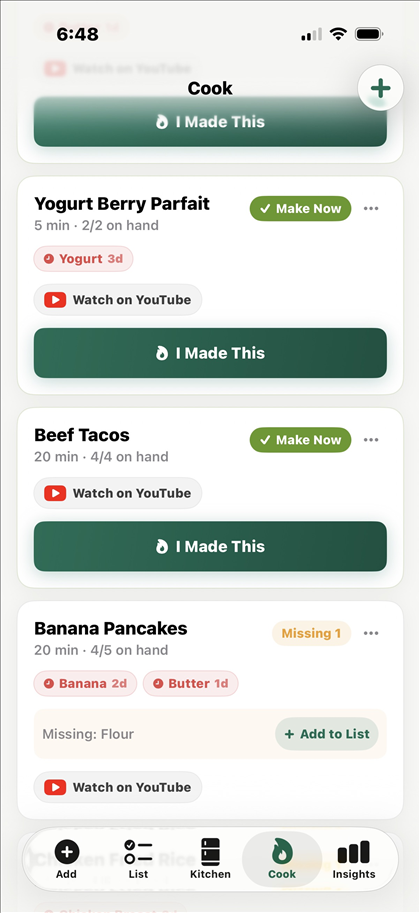
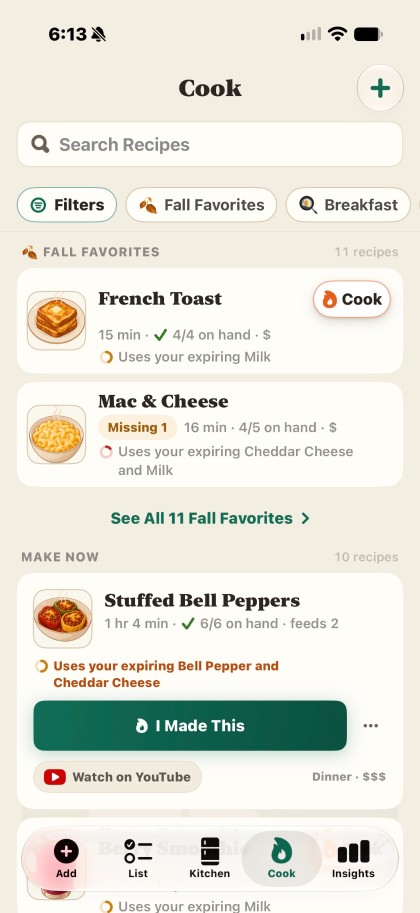
Pages match Kepta 1.2.15 + comparison refresh (CN-5, CN-16)
- New 1.2.15 screenshots (Kitchen, Cook, Insights) from John's store set, 420x913
- Eatvora page: rechecked Nov 14 vs eatvora.app + App Store (prices, plans, scanning unchanged);
  dates to November 2026; last-updated line for both apps; Ads row (their listing says it contains
  advertising); Kepta lines for 1.2.15 (dates per food + ring, never auto-discards, step by step
  recipes, Recycling and Food Scraps page)
- CozZo page: status rechecked (cozzo.app still shows the end-of-life notice, not in the US store);
  dates to November 2026; Kepta lines for 1.2.15
- Homepage + Thanksgiving: more than 100 recipes with directions, picture tiles, ring wording, alts
- Sitemap lastmod 2026-11-14 for the four changed pages. No only-app or more-accurate claims anywhere.

diff --git a/kepta-vs-eatvora.html b/kepta-vs-eatvora.html
@@ -5,12 +5,12 @@
 <meta name="viewport" content="width=device-width, initial-scale=1">
 <meta name="apple-itunes-app" content="app-id=6805635396">
 <title>Kepta vs Eatvora</title>
-<meta name="description" content="An honest, plainly worded comparison of Kepta and Eatvora: family sharing, item limits, pricing, recipes, and where each app is ahead. Verified September 2026.">
+<meta name="description" content="An honest, plainly worded comparison of Kepta and Eatvora: family sharing, item limits, pricing, recipes, and where each app is ahead. Verified November 2026.">
 <link rel="canonical" href="https://kepta.kitchen/kepta-vs-eatvora">
 <meta property="og:type" content="website">
 <meta property="og:site_name" content="Kepta">
 <meta property="og:title" content="Kepta vs Eatvora">
-<meta property="og:description" content="An honest, plainly worded comparison of Kepta and Eatvora: family sharing, item limits, pricing, recipes, and where each app is ahead. Verified September 2026.">
+<meta property="og:description" content="An honest, plainly worded comparison of Kepta and Eatvora: family sharing, item limits, pricing, recipes, and where each app is ahead. Verified November 2026.">
 <meta property="og:url" content="https://kepta.kitchen/kepta-vs-eatvora">
 <meta property="og:image" content="https://kepta.kitchen/kepta-share-card-2026-10.png">
 <meta property="og:image:secure_url" content="https://kepta.kitchen/kepta-share-card-2026-10.png">
@@ -20,7 +20,7 @@
 <meta property="og:image:alt" content="Kepta: Kitchen Inventory. Waste less, save money. Free on the App Store at kepta.kitchen.">
 <meta name="twitter:card" content="summary_large_image">
 <meta name="twitter:title" content="Kepta vs Eatvora">
-<meta name="twitter:description" content="An honest, plainly worded comparison of Kepta and Eatvora: family sharing, item limits, pricing, recipes, and where each app is ahead. Verified September 2026.">
+<meta name="twitter:description" content="An honest, plainly worded comparison of Kepta and Eatvora: family sharing, item limits, pricing, recipes, and where each app is ahead. Verified November 2026.">
 <meta name="twitter:image" content="https://kepta.kitchen/kepta-share-card-2026-10.png">
 <meta name="twitter:image:alt" content="Kepta: Kitchen Inventory. Waste less, save money. Free on the App Store at kepta.kitchen.">
 <link rel="icon" href="/favicon.ico" sizes="48x48">
@@ -135,7 +135,7 @@
   out the differences plainly, so you can pick the one that fits your&nbsp;kitchen.</p>
 
   <p class="note">Everything on this page about Eatvora was checked against eatvora.app and
-  their US App Store listing in September 2026. Their pricing and plans can change. If
+  their US App Store listing in November 2026. Their pricing and plans can change. If
   something here is out of date, tell us at
   <a href="mailto:support@kepta.kitchen">support@kepta.kitchen</a> and we'll fix it.
   Eatvora is a trademark of its owner. Kepta isn't affiliated with or endorsed by Eatvora,
@@ -146,7 +146,7 @@
     <div class="card">
       <h3>Eatvora in&nbsp;short</h3>
       <p>A household-management app with a <strong>free plan and two paid tiers</strong>. As
-      of September 2026, features like AI suggestions, unlimited items, family sharing, and
+      of November 2026, features like AI suggestions, unlimited items, family sharing, and
       monthly reports sit in the paid&nbsp;tiers.</p>
     </div>
     <div class="card">
@@ -168,21 +168,21 @@
           <th scope="row">Price</th>
           <td class="k">Free, with no ads and no item caps. Kepta Plus adds deeper money reports ($2.99/mo, $19.99/yr with a free week for new subscribers, or $39.99 once). Everything that saves food stays&nbsp;free.</td>
           <td class="e">Free download; Premium $4.99/mo or $39.99/yr; Plus $9.99/mo or $79.99/yr.
-            <small class="date">As of Sept&nbsp;2026</small></td>
+            <small class="date">As of Nov&nbsp;2026</small></td>
         </tr>
         <tr>
           <th scope="row">Family&nbsp;Sharing</th>
           <td class="k">Free. Your whole family shares one kitchen with a 6-character invite
             code like&nbsp;<span class="invite">ABC-123</span>.</td>
           <td class="e">In the Plus tier at $9.99/mo, for up to 5 household members.
-            <small class="date">As of Sept&nbsp;2026</small></td>
+            <small class="date">As of Nov&nbsp;2026</small></td>
         </tr>
         <tr>
           <th scope="row">Item&nbsp;Limits</th>
           <td class="k">None. Track as much food as you&nbsp;own.</td>
           <td class="e">Free plan is capped at 25 pantry items (per their site); Premium removes
             the cap.
-            <small class="date">As of Sept&nbsp;2026</small></td>
+            <small class="date">As of Nov&nbsp;2026</small></td>
         </tr>
         <tr>
           <th scope="row">Money&nbsp;Tracking</th>
@@ -190,41 +190,48 @@
             Homemade meals are counted as dishes, never given made-up&nbsp;prices.</td>
           <td class="e">Savings and report features, including the monthly report card and PDF
             reports, are in the Plus tier.
-            <small class="date">As of Sept&nbsp;2026</small></td>
+            <small class="date">As of Nov&nbsp;2026</small></td>
         </tr>
         <tr>
           <th scope="row">Recipes</th>
-          <td class="k">100 built-in recipes ranked by what you already have, with
-            expiring food pushed up, plus a YouTube video search for every dish and your own&nbsp;recipes.</td>
+          <td class="k">More than 100 built-in recipes ranked by what you already have, with
+            expiring food pushed up. Each has step by step directions with real amounts and a
+            Watch on YouTube button, and you can add your own&nbsp;recipes.</td>
           <td class="e">AI recipe suggestions and autopilot suggestions are in the Premium tier.
-            <small class="date">As of Sept&nbsp;2026</small></td>
+            <small class="date">As of Nov&nbsp;2026</small></td>
         </tr>
         <tr>
           <th scope="row">Barcode&nbsp;Scanning</th>
           <td class="k">Not&nbsp;yet.</td>
           <td class="e">Included on the free plan.
-            <small class="date">As of Sept&nbsp;2026</small></td>
+            <small class="date">As of Nov&nbsp;2026</small></td>
         </tr>
         <tr>
           <th scope="row">Receipt&nbsp;Scanning</th>
           <td class="k">Not&nbsp;yet.</td>
           <td class="e">Their site lists receipt scanning on the free plan, with advanced OCR
             scanning in Premium.
-            <small class="date">As of Sept&nbsp;2026</small></td>
+            <small class="date">As of Nov&nbsp;2026</small></td>
         </tr>
         <tr>
           <th scope="row">Availability</th>
-          <td class="k">On the App Store now.
-            <small class="date">As of Sept&nbsp;2026</small></td>
-          <td class="e">On the App Store now.
-            <small class="date">As of Sept&nbsp;2026</small></td>
+          <td class="k">On the App Store now. Last updated Nov&nbsp;13,&nbsp;2026 (version&nbsp;1.2.15).
+            <small class="date">As of Nov&nbsp;2026</small></td>
+          <td class="e">On the App Store now. Last updated Aug&nbsp;12,&nbsp;2026 (version&nbsp;1.2.1).
+            <small class="date">As of Nov&nbsp;2026</small></td>
+        </tr>
+        <tr>
+          <th scope="row">Ads</th>
+          <td class="k">None.</td>
+          <td class="e">Their App Store listing says the app contains&nbsp;advertising.
+            <small class="date">As of Nov&nbsp;2026</small></td>
         </tr>
       </tbody>
     </table>
   </div>
 
   <h2>Where Eatvora is ahead&nbsp;today</h2>
-  <p>Honestly, in a few places. As of September 2026, Eatvora ships all of&nbsp;these:</p>
+  <p>Honestly, in a few places. As of November 2026, Eatvora ships all of&nbsp;these:</p>
   <div class="card">
     <ul class="features">
       <li><span class="dot">&#9679;</span><span>Barcode&nbsp;scanning</span></li>
@@ -246,16 +253,19 @@
       <p>Kepta puts its effort into the everyday loop: knowing what's in your kitchen, what
       to use next, and what it's really costing&nbsp;you.</p>
       <ul class="plain">
-        <li><strong>A freshness color for every item</strong>, based on typical storage times for its kind of food and where you keep it, so you always know what to use&nbsp;next</li>
+        <li><strong>A date that fits each food</strong> and where you keep it, with a small ring showing how much of its life is left, so you always know what to use&nbsp;next</li>
+        <li><strong>Nothing counts as wasted unless you toss it.</strong> Food past its date waits in a card that says "Check before use", and Kepta never marks it discarded for&nbsp;you</li>
         <li><strong>A daily reminder that names the actual food</strong> about to turn, not a generic&nbsp;ping</li>
+        <li><strong>Recipes with step by step directions</strong> and real amounts that follow how many people you're cooking&nbsp;for</li>
         <li><strong>A shopping list with aisle grouping</strong> that moves straight into your kitchen, prices&nbsp;included</li>
+        <li><strong>A Recycling and Food Scraps page</strong> in Settings, with a short tip when you toss or finish a&nbsp;food</li>
         <li><strong>Family sharing, offline support, and Undo</strong> right after you add, use, or toss food, all&nbsp;free</li>
         <li><strong>No ads and no tracking</strong>: your email and kitchen data are used only to run Kepta, and Kepta Plus purchases are handled by Apple and&nbsp;RevenueCat</li>
         <li><strong>Delete your account any time</strong>, right inside the&nbsp;app</li>
       </ul>
     </div>
     <figure>
-      <img src="shots/insights.png" alt="Kepta's Insights screen showing money wasted and money saved" width="420" height="913" loading="lazy">
+      <img src="shots/insights.png" alt="Kepta's Insights screen showing money saved, money wasted, the save rate, and where the waste went" width="420" height="913" loading="lazy">
       <figcaption>Kepta's money screen, built on the prices you enter. Homemade meals count as dishes, not&nbsp;dollars.</figcaption>
     </figure>
   </div>

diff --git a/cozzo-alternative.html b/cozzo-alternative.html
@@ -159,14 +159,14 @@
     <div>
       <h2>What happened to&nbsp;CozZo</h2>
       <div class="card" style="margin-bottom:0;">
-        <p style="margin:0 0 0.7rem;">By its makers' own account, the service ended because the cloud infrastructure that supported it was being shut down, not because they chose to walk away from it. They responded generously: a farewell version with every premium feature unlocked, supported through December 30, 2025. As of September 2026, the app is no longer available on the US App&nbsp;Store.</p>
+        <p style="margin:0 0 0.7rem;">By its makers' own account, the service ended because the cloud infrastructure that supported it was being shut down, not because they chose to walk away from it. They responded generously: a farewell version with every premium feature unlocked, supported through December 30, 2025. As of November 2026, the app is no longer available on the US App&nbsp;Store.</p>
         <p style="margin:0;">Their goodbye note was warm to the&nbsp;end.</p>
         <blockquote>"Thank you for every moment you've spent with CozZo."<cite>The CozZo team, in their farewell&nbsp;announcement</cite></blockquote>
       </div>
     </div>
     <div>
       <h2>Where Kepta&nbsp;stands</h2>
-      <p style="margin:0;">Kepta is a kitchen inventory and food-waste app for iPhone. It is free on the App Store now. Everything in the CozZo column below comes from CozZo's own website, and every comparison is accurate as of September&nbsp;2026.</p>
+      <p style="margin:0;">Kepta is a kitchen inventory and food-waste app for iPhone. It is free on the App Store now. Everything in the CozZo column below comes from CozZo's own website, and every comparison is accurate as of November&nbsp;2026.</p>
       <p class="notice">CozZo is a trademark of its owner. Kepta isn't affiliated with or endorsed by the CozZo team, and this page isn't a review of their work: it's a plain accounting of what carries over and what doesn't. If something here is wrong, tell us at <a href="mailto:support@kepta.kitchen">support@kepta.kitchen</a> and we'll fix&nbsp;it.</p>
     </div>
   </section>
@@ -210,7 +210,7 @@
       <h3>Your food inventory <span class="chip yes">Covered</span></h3>
       <div class="cols">
         <div class="col"><span class="label">CozZo had</span><p>One inventory from fridge to pantry, tracking "Best By" and "Use By" dates for all&nbsp;foods.</p></div>
-        <div class="col k"><span class="label">Kepta</span><p>Fridge, freezer, and pantry, plus custom places you name yourself. Instead of typed package dates, every item gets a freshness color from typical storage times for its kind of food and where it's&nbsp;kept.</p></div>
+        <div class="col k"><span class="label">Kepta</span><p>Fridge, freezer, and pantry, plus custom places you name yourself. Instead of typed package dates, every item gets a date that fits the food itself and where it's kept, with a small ring showing how much of its life is left. Pick the day you bought something and its dates count from that&nbsp;day.</p></div>
       </div>
     </div>
 
@@ -226,7 +226,7 @@
       <h3>Expiry warnings <span class="chip diff">Different</span></h3>
       <div class="cols">
         <div class="col"><span class="label">CozZo had</span><p>"Best By" and "Use By" tracking that helped you decide whether food had to be&nbsp;binned.</p></div>
-        <div class="col k"><span class="label">Kepta</span><p>A daily reminder that names the actual items to use soon, plus freshness colors on every row. You don't have to type dates: Kepta estimates from what the food is and where it lives, and you can set your own on any item. It's quality guidance, not safety advice, and it says&nbsp;so.</p></div>
+        <div class="col k"><span class="label">Kepta</span><p>A daily reminder that names the actual items to use soon, plus a freshness ring and a plain countdown on every row, like "3 days left" or "2 days to cook". You don't have to type dates: Kepta estimates from what the food is and where it lives, and you can set your own on any item. It's quality guidance, not safety advice, and it says&nbsp;so.</p></div>
       </div>
     </div>
 
@@ -234,7 +234,7 @@
       <h3>Recipes from what you have <span class="chip yes">Covered</span></h3>
       <div class="cols">
         <div class="col"><span class="label">CozZo had</span><p>AI matching of recipe ingredients to the products in your stock, part of the Household&nbsp;Account.</p></div>
-        <div class="col k"><span class="label">Kepta</span><p>A Cook tab of 100 recipes ranked by what's already in your kitchen, with expiring food boosted to the top and a YouTube video search for every dish.&nbsp;Free.</p></div>
+        <div class="col k"><span class="label">Kepta</span><p>A Cook tab of more than 100 recipes ranked by what's already in your kitchen, with expiring food boosted to the top. Each has step by step directions with real amounts and a Watch on YouTube button.&nbsp;Free.</p></div>
       </div>
     </div>
 
@@ -258,7 +258,7 @@
       <h3>Barcode scanning <span class="chip not">Not&nbsp;Yet</span></h3>
       <div class="cols">
         <div class="col"><span class="label">CozZo had</span><p>A scanner that recognized over half a billion products, including package sizes and&nbsp;photos.</p></div>
-        <div class="col k"><span class="label">Kepta</span><p>Not yet. Adding food is fast type-ahead with smart guesses for category, place, and price, but there is no barcode scanner&nbsp;today.</p></div>
+        <div class="col k"><span class="label">Kepta</span><p>Not yet. Adding food is a tap on a Quick Add picture tile or fast type-ahead with smart guesses for category, place, and price, but there is no barcode scanner&nbsp;today.</p></div>
       </div>
     </div>
 
@@ -293,7 +293,9 @@
       <ul>
         <li><span class="dot">●</span><span><strong>Honest money tracking:</strong> the prices you enter (or a plain typical price you can change), charged only for what you waste, with no AI guessing and no fake dollars for home&nbsp;cooking.</span></li>
         <li><span class="dot">●</span><span><strong>A daily reminder that names real food,</strong> the actual items to use soon, not a generic&nbsp;ping.</span></li>
+        <li><span class="dot">●</span><span><strong>Step by step recipes:</strong> directions in Prep, Cook, and Serve, with real amounts that follow how many people you're cooking&nbsp;for.</span></li>
         <li><span class="dot">●</span><span><strong>Undo right after you add, use, or toss food,</strong> so a mis-tap never costs you an&nbsp;item.</span></li>
+        <li><span class="dot">●</span><span><strong>A Recycling and Food Scraps page</strong> in Settings, with a short tip when you toss or finish a&nbsp;food.</span></li>
         <li><span class="dot">●</span><span><strong>Offline support:</strong> add food and browse your kitchen without a&nbsp;connection.</span></li>
         <li><span class="dot">●</span><span><strong>No item caps, no ads, no tracking.</strong> Your email and kitchen data are used only to run Kepta, and Kepta Plus purchases are handled by Apple and&nbsp;RevenueCat.</span></li>
         <li><span class="dot">●</span><span><strong>Account deletion lives inside the app</strong> and removes your&nbsp;data.</span></li>
@@ -306,15 +308,15 @@
     <p class="kicker">Three screens from the&nbsp;app.</p>
     <div class="shots">
       <figure>
-        <img src="shots/kitchen.png" alt="Kepta's Kitchen tab, with items colored green, amber, and red by freshness" width="420" height="913" loading="lazy">
-        <figcaption>Freshness colors on every&nbsp;item</figcaption>
+        <img src="shots/kitchen.png" alt="Kepta's Kitchen tab: food pictures in a Use First shelf, each with a freshness ring and the days it has left" width="420" height="913" loading="lazy">
+        <figcaption>A freshness ring on every&nbsp;item</figcaption>
       </figure>
       <figure>
         <img src="shots/cook.png" alt="Kepta's Cook tab, with Make Now recipes ranked by what's in the kitchen" width="420" height="913" loading="lazy">
         <figcaption>Recipes ranked by what you&nbsp;have</figcaption>
       </figure>
       <figure>
-        <img src="shots/insights.png" alt="Kepta's Insights screen, showing money wasted and saved" width="420" height="913" loading="lazy">
+        <img src="shots/insights.png" alt="Kepta's Insights screen, showing money saved, money wasted, and where the waste went" width="420" height="913" loading="lazy">
         <figcaption>Money, honestly&nbsp;counted</figcaption>
       </figure>
     </div>

diff --git a/index.html b/index.html
@@ -294,15 +294,15 @@
       <div class="card">
         <span class="step-num">1</span>
         <h3>Add in&nbsp;seconds</h3>
-        <p>Tap a chip for staples like milk or eggs, or type a couple of letters and pick from
+        <p>Tap a picture tile for staples like milk or eggs, or type a couple of letters and pick from
         the suggestions. Kepta guesses the category, the spot, and the shelf life for you.
         There's no barcode scanner yet. For now, a tap or two covers most&nbsp;items.</p>
       </div>
       <div class="card">
         <span class="step-num">2</span>
         <h3>Colors tell you what to&nbsp;use</h3>
-        <p>Every item gets a color from how much of its shelf life is left, based on typical
-        storage times for its kind of food and where you keep it. Raw meat and seafood in
+        <p>Every item gets a ring and a color from how much of its life is left, with dates
+        that fit the food itself and where you keep it. Raw meat and seafood in
         the fridge count down to cook instead, and fridge leftovers count down to eat, so you
         know what to use&nbsp;first.</p>
         <ul class="swatches rounded" aria-label="Freshness colors">
@@ -314,10 +314,10 @@
       <div class="card">
         <span class="step-num">3</span>
         <h3>Cook what you&nbsp;have</h3>
-        <p>100 recipes, ranked by what's actually in your kitchen. Dishes you can make
-        right now come first, and anything that rescues expiring food gets a boost. Every
-        recipe has a Watch on YouTube button that finds cooking videos for that dish, and
-        you can save your&nbsp;own.</p>
+        <p>More than 100 recipes, ranked by what's actually in your kitchen. Dishes you can
+        make right now come first, and anything that rescues expiring food gets a boost. Each
+        has step by step directions with real amounts and a Watch on YouTube button, and you
+        can save your&nbsp;own.</p>
       </div>
       <div class="card">
         <span class="step-num">4</span>
@@ -335,18 +335,18 @@
     <div class="shots">
       <figure style="margin:0;">
         <div class="shot-name"><img src="shots/icons/kitchen.png" alt="" aria-hidden="true"><span>Kitchen</span><span></span></div>
-        <div class="phone"><img src="shots/kitchen.png" alt="Kepta's Kitchen tab: a list of food items, each with a green, amber, or red freshness color and the days it has left" width="420" height="913" loading="lazy"></div>
+        <div class="phone"><img src="shots/kitchen.png" alt="Kepta's Kitchen tab: food pictures in a Use First shelf, each with a freshness ring and the days it has left" width="420" height="913" loading="lazy"></div>
         <figcaption class="shot-label">Your kitchen, sorted by what's dying&nbsp;first</figcaption>
       </figure>
       <figure style="margin:0;">
         <div class="shot-name"><img src="shots/icons/cook.png" alt="" aria-hidden="true"><span>Cook</span><span></span></div>
-        <div class="phone"><img src="shots/cook.png" alt="Kepta's Cook tab: recipe cards marked Make Now, ranked by the ingredients already in the kitchen" width="420" height="913" loading="lazy"></div>
+        <div class="phone"><img src="shots/cook.png" alt="Kepta's Cook tab: Fall Favorites and Make Now recipes, ranked by the ingredients already in the kitchen" width="420" height="913" loading="lazy"></div>
         <figcaption class="shot-label">Recipes you can make right now, on&nbsp;top</figcaption>
       </figure>
       <figure style="margin:0;">
         <div class="shot-name"><img src="shots/icons/insights.png" alt="" aria-hidden="true"><span>Insights</span><span></span></div>
-        <div class="phone"><img src="shots/insights.png" alt="Kepta's Insights tab: money wasted and money saved cards with a save-rate bar and waste by category" width="420" height="913" loading="lazy"></div>
-        <figcaption class="shot-label">Money wasted and saved, at your&nbsp;prices</figcaption>
+        <div class="phone"><img src="shots/insights.png" alt="Kepta's Insights tab: money saved and money wasted with a save-rate bar, and where the waste went" width="420" height="913" loading="lazy"></div>
+        <figcaption class="shot-label">Money saved and wasted, at your&nbsp;prices</figcaption>
       </figure>
     </div>
   </section>

diff --git a/thanksgiving-leftovers.html b/thanksgiving-leftovers.html
@@ -316,7 +316,7 @@
         <li><span class="dot">●</span><span><strong>A daily reminder that names the item,</strong> the actual turkey or stuffing to use soon, not a generic&nbsp;nag.</span></li>
         <li><span class="dot">●</span><span><strong>Family sharing, free.</strong> One six-character invite code puts everyone in the same kitchen, so the whole house sees what's left and nobody wonders whether the pie is&nbsp;gone.</span></li>
         <li><span class="dot">●</span><span><strong>Used or tossed, honestly counted.</strong> Groceries count at the price you enter, or at a plain typical price you can change if you skip it. Homemade dishes are counted as dishes cooked, never turned into made-up dollar&nbsp;savings.</span></li>
-        <li><span class="dot">●</span><span><strong>For the rest of the week,</strong> a shopping list grouped by aisle and 100 recipes ranked by what's still in your&nbsp;kitchen.</span></li>
+        <li><span class="dot">●</span><span><strong>For the rest of the week,</strong> a shopping list grouped by aisle and more than 100 recipes ranked by what's still in your&nbsp;kitchen.</span></li>
       </ul>
     </div>
     <p class="fineprint">Kepta is free, with no ads and no item limits. Kepta Plus is an optional upgrade for deeper money&nbsp;reports.</p>
